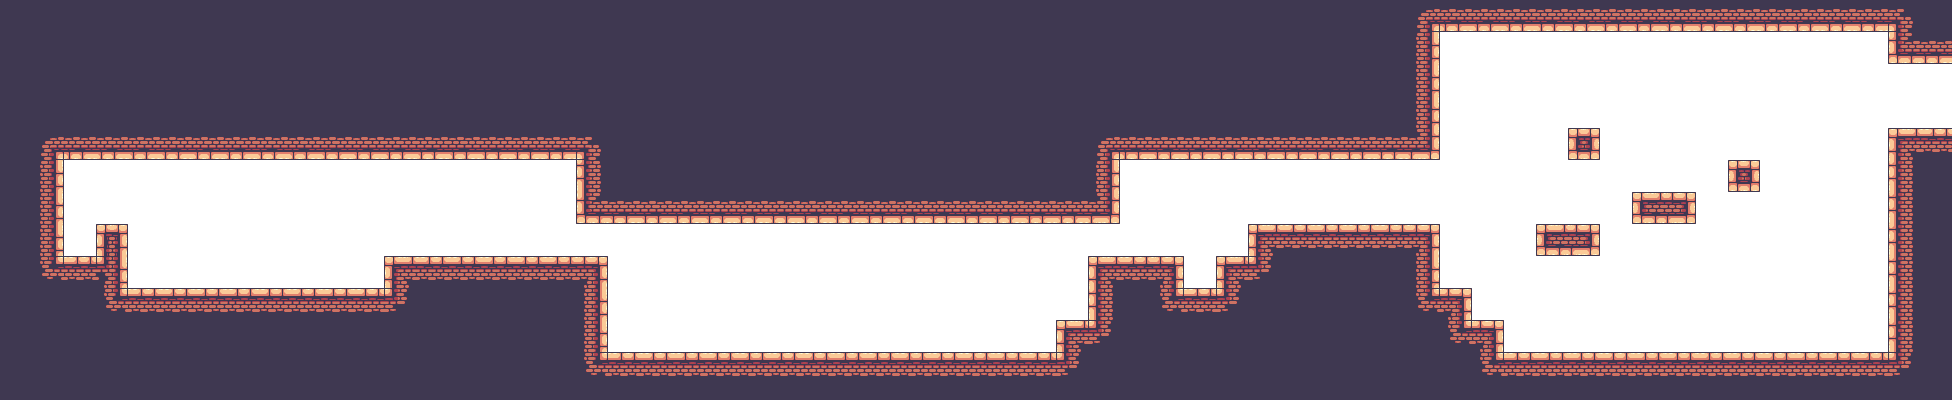
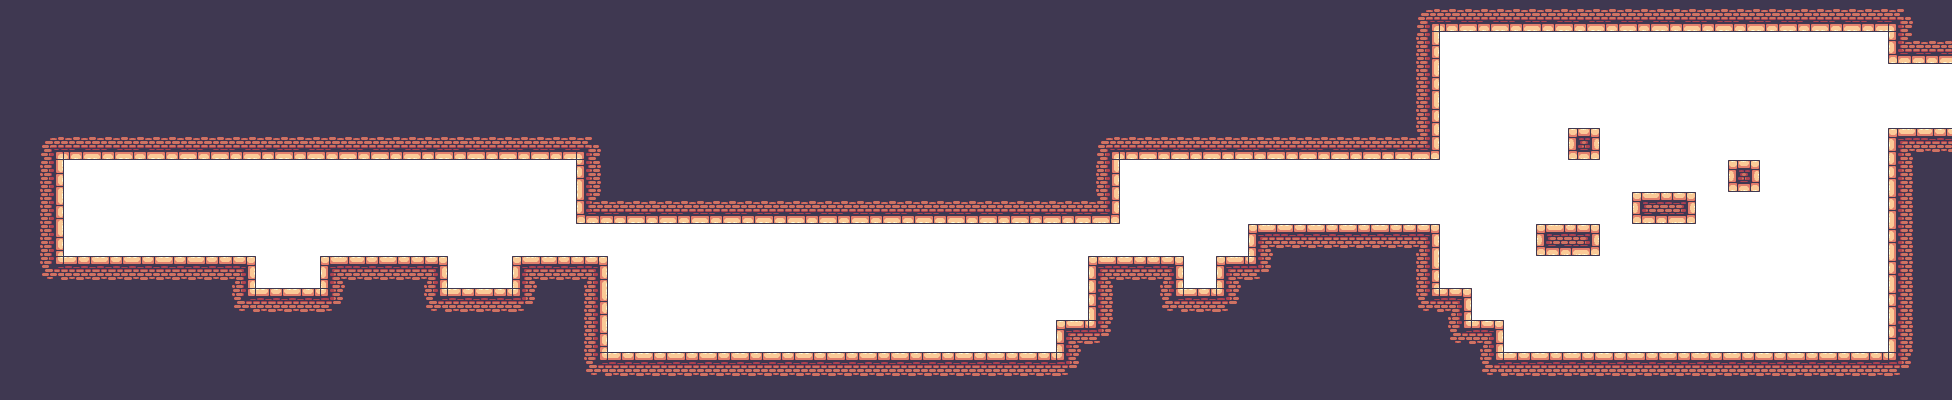
feat: enemy will try to jump over obstacle

Changed region(s): [[0.0312, 0.54, 0.2812, 0.78]]

diff --git a/CHANGELOG.md b/CHANGELOG.md
@@ -204,19 +204,31 @@ stateDiagram-v2
 - [x] Item drops from defeated enemies
 - [x] Enemy chases player behaviors
 - [x] Enemy attack behaviors
+- [x] Enemy shows dialogue before actions
 - [x] Player dead state
 - [x] Gameover Screen
-- [ ] Dynamic patrol route adjustments for enemies
+- [x] Dynamic patrol route adjustments for enemies
+
+#### Changed
+
+- [x] Improved enemy patrol to account for unreachable destinations
+
+#### Fixed
+
+- [x] Resolve door collision issues
+- [x] Adjust hitbox logic for consistent enemy collision handling
+
+### 11/08/2024
+
+#### Added
+
 - [ ] Power-ups and experience points (EXP)
 - [ ] Settings menu for in-game options
 - [ ] Boss fight encounter
 
 #### Changed
 
-- [ ] Improved enemy patrol to account for unreachable destinations
+- [ ] Enemy can jump when it needs to
 - [ ] Enhanced tile rendering logic for better layout flexibility
 
 #### Fixed
-
-- [x] Resolve door collision issues
-- [x] Adjust hitbox logic for consistent enemy collision handling
